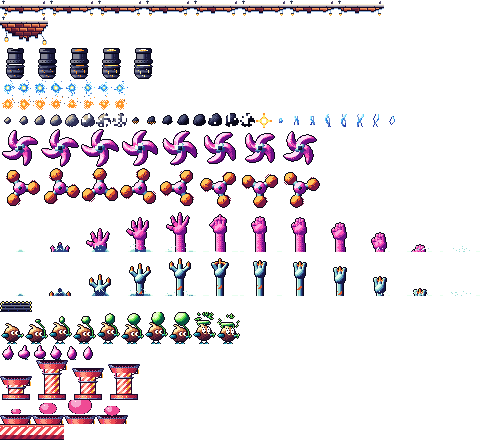
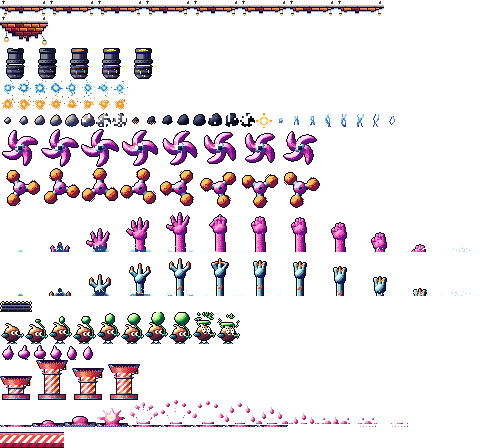
Import the tight-pop gum burst for the bonus nozzles
13 frames of 32x32 with a per-frame tick table from the importer (37 ticks), replacing the 4 frame puff. Draw origin unchanged; the burst height is 32 and overlays the nozzle cap.

diff --git a/tools/import_arcade_sheet.py b/tools/import_arcade_sheet.py
@@ -34,9 +34,12 @@ STRIPS = [
     ("drop_a_strip.png", 16, 16, [("drop_a", 6)]),
 ]
 # Bonus stage nozzle art (thoughts/spot/drafts/2026-11-13-bonus-nozzles/, variant A): one image with 4 nozzles of different heights
-# (bottom aligned in the image), the mouth puff (4 frames) and the floor tile (left 32 of 64). One unpinned "nozzle" group, so it
+# (bottom aligned in the image), the gum burst (13 frames) and the floor tile (left 32 of 64). One unpinned "nozzle" group, so it
 # gets its own palette appended after the pinned ones and no existing arcade palette index moves.
 NOZZLE_DIR = os.path.join(ROOT, "thoughts/spot/drafts/2026-11-13-bonus-nozzles")
+# Gum burst (variant A "tight pop", picked 2026-11-15; draft thoughts/shared/drafts/2026-11-15-gum-burst/): 13 frames of 32x32, ticks per frame at 60 Hz.
+BURST_DIR = os.path.join(ROOT, "assets/arcade")
+BURST_TICKS = [3, 3, 2, 2, 2, 2, 3, 3, 3, 3, 3, 4, 4]
 NOZZLE_X = [0, 36, 72, 108]; NOZZLE_W = 32; NOZZLE_H = [24, 40, 32, 36]
 # animation -> palette it is pinned to (sources: triphaz storm, sootling player/cpu, island roof)
 PINS = {"storm": ["body_a", "body_b", "spark_a", "spark_b", "smoke_light", "smoke_dark", "flash", "air", "hatch"],
@@ -44,8 +47,8 @@ PINS = {"storm": ["body_a", "body_b", "spark_a", "spark_b", "smoke_light", "smok
         "computer": ["blow", "caught"],
         "roof": ["island_a", "island_b"]}
 META = {
-    "defines": {"ISLAND48_ART_W": 48, "VENT_ART_W": 32, "VENT_FRAMES": 5, "SPARK_ART_W": 16, "SPARK_FRAMES": 8, "SPARK_HIT_X0": 3, "SPARK_HIT_Y0": 3, "SPARK_HIT_X1": 13, "SPARK_HIT_Y1": 13, "VENT_LOOP_TICKS": 336, "PARTICLE_ART_W": 16, "FLIPPER_ART_W": 40, "FLIPPER_FRAMES": 8, "FLIPPER_A_HIT_R": 14, "FLIPPER_B_HIT_R": 12, "GRABBER_ART_W": 40, "GRABBER_ART_H": 44, "GRABBER_FRAMES": 12, "BLOW_ART_W": 24, "BLOW_ART_H": 32, "DROP_ART_W": 16, "DROP_FRAMES": 6},
-    "tables": {"grabber_frame_ticks": [7, 6, 4, 4, 8, 3, 4, 13, 5, 5, 5, 7], "spark_frame_ticks": [4], "caught_frame_ticks": [6, 10]},
+    "defines": {"ISLAND48_ART_W": 48, "VENT_ART_W": 32, "VENT_FRAMES": 5, "SPARK_ART_W": 16, "SPARK_FRAMES": 8, "SPARK_HIT_X0": 3, "SPARK_HIT_Y0": 3, "SPARK_HIT_X1": 13, "SPARK_HIT_Y1": 13, "VENT_LOOP_TICKS": 336, "PARTICLE_ART_W": 16, "FLIPPER_ART_W": 40, "FLIPPER_FRAMES": 8, "FLIPPER_A_HIT_R": 14, "FLIPPER_B_HIT_R": 12, "GRABBER_ART_W": 40, "GRABBER_ART_H": 44, "GRABBER_FRAMES": 12, "BLOW_ART_W": 24, "BLOW_ART_H": 32, "DROP_ART_W": 16, "DROP_FRAMES": 6, "PUFF_TOTAL_TICKS": sum(BURST_TICKS)},
+    "tables": {"grabber_frame_ticks": [7, 6, 4, 4, 8, 3, 4, 13, 5, 5, 5, 7], "spark_frame_ticks": [4], "caught_frame_ticks": [6, 10], "puff_frame_ticks": BURST_TICKS},
     "hitbox": {"spark": {"x": 3, "y": 3, "w": 10, "h": 10}, "flipper_a": {"x": 6, "y": 6, "w": 28, "h": 28}, "flipper_b": {"x": 8, "y": 8, "w": 24, "h": 24}, "grabber": {"x": 12, "y": 6, "w": 16, "h": 38}}}
 
 
@@ -87,8 +90,8 @@ def build(out):
             anims[name] = [{"x": x + i * fw, "y": y, "w": fw, "h": fh} for i in range(n)]
             x += n * fw
         y += im.height
-    for f in ("nozzles_A_1x.png", "puff_A_1x.png", "floor_A_1x.png"):
-        im = snap5(Image.open(os.path.join(NOZZLE_DIR, f)).convert("RGBA"))
+    for f in ("nozzles_A_1x.png", "gum_burst_a_strip.png", "floor_A_1x.png"):
+        im = snap5(Image.open(os.path.join(BURST_DIR if f.startswith("gum_burst") else NOZZLE_DIR, f)).convert("RGBA"))
         y = sheet.height
         grown = Image.new("RGBA", (max(sheet.width, im.width), y + im.height), (0, 0, 0, 0))
         grown.paste(sheet, (0, 0)); grown.paste(im, (0, y)); sheet = grown
@@ -96,9 +99,9 @@ def build(out):
             assert im.size == (140, 40)
             for i in range(4):
                 anims["nozzle%d" % i] = [{"x": NOZZLE_X[i], "y": y + 40 - NOZZLE_H[i], "w": NOZZLE_W, "h": NOZZLE_H[i]}]
-        elif f.startswith("puff"):
-            assert im.size == (128, 24)
-            anims["puff"] = [{"x": i * 32, "y": y, "w": 32, "h": 24} for i in range(4)]
+        elif f.startswith("gum_burst"):
+            assert im.size == (32 * len(BURST_TICKS), 32)
+            anims["puff"] = [{"x": i * 32, "y": y, "w": 32, "h": 32} for i in range(len(BURST_TICKS))]
         else:
             assert im.size == (64, 16)
             anims["floor"] = [{"x": 0, "y": y, "w": 32, "h": 16}]

diff --git a/src/main.c b/src/main.c
@@ -586,7 +586,11 @@ static void arcade_elems_step(const Game *g) {
 #define BONUS_FLOOR_TILES (ARC_BONUS_WORLD_W / 32)
 _Static_assert(BONUS_PUFF_SPRITE + 2 * ARC_NOZZLE_COUNT <= ARC_BONUS_SPRITE + TRIP_STRIP_COUNT, "bonus sprites exceed the shared strip range");
 _Static_assert(ARC_BONUS_COUNT >= 2 * ARC_BONUS_LIVE_MAX && 2 * BONUS_FLOOR_TILES <= ISLAND_COUNT, "bonus sprite slot counts");
-_Static_assert(ARCADE_PIECE_NOZZLE0_COUNT == 1 && ARCADE_PIECE_FLOOR_COUNT == 1 && ARCADE_PIECE_PUFF_COUNT == 4, "bonus art frame counts");
+_Static_assert(ARCADE_PIECE_NOZZLE0_COUNT == 1 && ARCADE_PIECE_FLOOR_COUNT == 1 && ARCADE_PIECE_PUFF_COUNT == 13 && ARCADE_PUFF_TOTAL_TICKS == ARC_BONUS_PUFF_FRAMES, "bonus art frame counts");
+_Static_assert(ARC_BONUS_PUFF_FRAMES <= ARC_BONUS_SPAWN_MIN, "a nozzle cannot fire again inside its burst");
+static const u8 k_puff_ticks[ARCADE_PIECE_PUFF_COUNT] = ARCADE_TABLE_PUFF_FRAME_TICKS;
+/* Art frame of the burst after e elapsed ticks (e < ARC_BONUS_PUFF_FRAMES). */
+static int puff_frame(int e) { int f = 0; while (e >= k_puff_ticks[f]) e -= k_puff_ticks[f++]; return f; }
 _Static_assert(TRIPPICKUP_PICKUP_IDLE_FRAMES == ARC_VIEW_BUBBLE_FRAMES, "pickup idle frame count differs from arc_view bubbles");
 static u8 g_bonus_dirty;
 static int g_bonus_cam = -1; /* camera the floor and nozzles were last placed for; -1 = place them again */
@@ -692,7 +696,7 @@ static void arcade_bonus_step(const Game *g) {
     bonus_static_place();
     for (int k = 0; k < ARC_NOZZLE_COUNT; k++) {
         int top = arc_nozzle_top(k), x = arc_nozzle_x(k), p = g->bonus.puff[k];
-        if (p) { bonus_piece((u16)(BONUS_PUFF_SPRITE + 2 * k), ARCADE_PIECE_PUFF_FIRST + ((ARC_BONUS_PUFF_FRAMES - p) >> 2), x, top - 24); g_bonus_puff_on |= (u8)(1 << k); }
+        if (p) { bonus_piece((u16)(BONUS_PUFF_SPRITE + 2 * k), ARCADE_PIECE_PUFF_FIRST + puff_frame(ARC_BONUS_PUFF_FRAMES - p), x, top - 24); g_bonus_puff_on |= (u8)(1 << k); }
         else if (g_bonus_puff_on & (1 << k)) { obs_hide_slot((u16)(BONUS_PUFF_SPRITE + 2 * k)); obs_hide_slot((u16)(BONUS_PUFF_SPRITE + 2 * k + 1)); g_bonus_puff_on &= (u8)~(1 << k); }
     }
 }

diff --git a/src/core/arcade.h b/src/core/arcade.h
@@ -24,7 +24,7 @@
 #define ARC_BONUS_LIVE_MAX 4
 #define ARC_BONUS_SPAWN_MIN 70        /* spawn timer reload = MIN + (random & MASK) frames: 70..133 */
 #define ARC_BONUS_SPAWN_MASK 63
-#define ARC_BONUS_PUFF_FRAMES 16      /* frames the nozzle mouth puffs when a bubble leaves (4 art frames, 4 each) */
+#define ARC_BONUS_PUFF_FRAMES 37      /* frames the nozzle gum burst runs when a bubble leaves (13 art frames; main.c asserts it equals the art tick table sum) */
 #define ARC_BONUS_STRAIGHT 40         /* px a bubble rises straight above its nozzle top before it starts to sway */
 #define ARC_NOZZLE_COUNT 4
 #define ARC_NOZZLE_W 32               /* nozzle art width, px */
